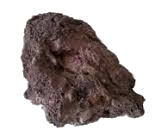
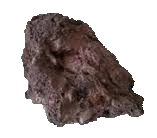
v1.03 - Colisao quase ok

diff --git a/core/src/com/spaceescape/game/Asteroide.java b/core/src/com/spaceescape/game/Asteroide.java
@@ -5,6 +5,7 @@ import com.badlogic.gdx.ApplicationAdapter;
 import com.badlogic.gdx.Gdx;
 import com.badlogic.gdx.graphics.Texture;
 import com.badlogic.gdx.graphics.g2d.SpriteBatch;
+import com.badlogic.gdx.math.Circle;
 
 
 import java.util.Random;
@@ -20,17 +21,16 @@ public class Asteroide extends Thread {
     private SpriteBatch batch;
     private int x = gerador.nextInt(Gdx.graphics.getWidth());
     private int y = gerador.nextInt(Gdx.graphics.getHeight());
-    private int velx,vely;
+    private int velx, vely;
     private int identificador;
     private Texture asteroide;
     private boolean visivel;
-    private int altura,largura;
-    private int vida=4000;
+    private int altura, largura;
+    private int vida = 4000;
 
 
-
-    public Asteroide(){
-        asteroide = new Texture("asteroide1.png");
+    public Asteroide() {
+        asteroide = new Texture("asteroide2.png");
         batch = new SpriteBatch();
         this.x = x;
         this.y = y;
@@ -44,58 +44,72 @@ public class Asteroide extends Thread {
         this.larguraDispositivo = Gdx.graphics.getWidth();
     }
 
-    public void run(){
+    public void run() {
         long count = 0;
 
-        while ( true ){
-            try{
+        while (true) {
+            try {
                 Thread.sleep(25);
-            }catch(InterruptedException e){}
+            } catch (InterruptedException e) {
+            }
             //vida=vida-1;
             this.mover();
         }
     }
 
 
-    public void mover(){
+    public void mover() {
 
-        if (x <= 0) {
-            velx = gerador.nextInt(3);
-            vely = -gerador.nextInt(3);
-            x = 5;
-        }
-        if (x >= alturaDispositivo) { // altura pois está em landscape
-            velx = -gerador.nextInt(3);
-            vely = gerador.nextInt(3);
-            x = 575;
-        }
-        if (y <= 26) {
-            vely = gerador.nextInt(3);
-            velx = -gerador.nextInt(3);
-            y = 26;
-        }
-        if (y >= larguraDispositivo) { // largura pois está em landscape
-            vely = -gerador.nextInt(3);
-            velx = gerador.nextInt(3);
-            y = 510;
-        }
+//        if (x <= 0) {
+//            velx = gerador.nextInt(10);
+//            vely = -gerador.nextInt(10);
+//            x = 5;
+//        }
+//        if (x >= alturaDispositivo) { // altura pois está em landscape
+//            velx = -gerador.nextInt(10);
+//            vely = gerador.nextInt(10);
+//            x = (int)alturaDispositivo;
+//        }
+//        if (y <= 26) {
+//            vely = gerador.nextInt(10);
+//            velx = -gerador.nextInt(10);
+//            y = 26;
+//        }
+//        if (y >= larguraDispositivo) { // largura pois está em landscape
+//            vely = -gerador.nextInt(10);
+//            velx = gerador.nextInt(10);
+//            y = (int)larguraDispositivo;
+//        }
 
+        if (x < -500) {
+            velx = gerador.nextInt(10);
+            vely = -gerador.nextInt(10);
+            x = -500;
+        }
+        if (x > Gdx.graphics.getWidth()+500) {
+            velx = -gerador.nextInt(10);
+            vely = gerador.nextInt(10);
+            x = Gdx.graphics.getWidth() +500;
+        }
+        if (y < -500) {
+            vely = gerador.nextInt(10);
+            velx = -gerador.nextInt(10);
+            y = -500;
+
+        }
+        if (y > Gdx.graphics.getHeight()+500){
+            vely = -gerador.nextInt(10);
+            velx = gerador.nextInt(10);
+            y = Gdx.graphics.getHeight() + 500;
+        }
         this.x = x + velx;
         this.y = y + vely;
 
     }
 
-
-    public void desenhaAsteroide () {
-        if(vida<0){
-            visivel=false;
-        }
-        if (visivel == true) {
-            batch.begin();
-            batch.draw(asteroide, 0, 0, largura, altura);
-            batch.end();
-        }
-
+    public Circle getFiguraColisao(){
+        return new Circle(this.x + this.largura/2,this.y + this.altura/2,this.largura/2);
+        //return new Rectangle(this.x,this.y,this.largura,this.altura);
     }
 
     public Texture getAsteroide() {
@@ -119,11 +133,6 @@ public class Asteroide extends Thread {
     }
 
 
-
-
-
-
-
     public boolean isVisible() {
         return visivel;
     }
@@ -131,8 +140,6 @@ public class Asteroide extends Thread {
     public void setVisible(boolean visible) {
         this.visivel = visivel;
     }
-
-
 
 
 

diff --git a/core/src/com/spaceescape/game/SpaceEscape.java b/core/src/com/spaceescape/game/SpaceEscape.java
@@ -2,9 +2,14 @@ package com.spaceescape.game;
 
 import com.badlogic.gdx.ApplicationAdapter;
 import com.badlogic.gdx.Gdx;
+import com.badlogic.gdx.graphics.Color;
 import com.badlogic.gdx.graphics.GL20;
 import com.badlogic.gdx.graphics.Texture;
 import com.badlogic.gdx.graphics.g2d.SpriteBatch;
+import com.badlogic.gdx.graphics.glutils.ShapeRenderer;
+import com.badlogic.gdx.math.Circle;
+import com.badlogic.gdx.math.Intersector;
+import com.badlogic.gdx.math.Rectangle;
 import com.spaceescape.game.Asteroide;
 
 import java.util.ArrayList;
@@ -20,6 +25,13 @@ public class SpaceEscape extends ApplicationAdapter {
 	private float renderY = 100;
 
 	private ArrayList<Asteroide> asteroides = new ArrayList();
+
+	//Formas para Colisão
+	private ShapeRenderer shapeRenderer;
+	private Circle circuloNave,circuloAsteroide;
+	private Rectangle retanguloCanoCima;
+
+
 
 
 	//Atributos de Configurações
@@ -42,6 +54,11 @@ public class SpaceEscape extends ApplicationAdapter {
 		adicionaAsteroide();
 		adicionaAsteroide();
 		adicionaAsteroide();
+		adicionaAsteroide();
+
+
+
+
 	}
 
 	@Override
@@ -51,7 +68,7 @@ public class SpaceEscape extends ApplicationAdapter {
 		//Gdx.gl.glClear(GL20.GL_COLOR_BUFFER_BIT | GL20.GL_DEPTH_BUFFER_BIT);
 		//desenharTexturas();
 		verificaEstadoJogo();
-
+		detectarColisoes();
 	}
 
 	@Override
@@ -63,9 +80,9 @@ public class SpaceEscape extends ApplicationAdapter {
 	private void inicializaTexturas(){
 
 		nave = new Texture[3];
-		nave[0] = new Texture("nave13.png");
-		nave[1] = new Texture("nave14.png");
-		nave[2] = new Texture("nave11.png");
+		nave[0] = new Texture("nave1.png");
+		nave[1] = new Texture("nave2.png");
+		nave[2] = new Texture("nave3.png");
 		fundo = new Texture("fundo.png");
 
 	}
@@ -94,6 +111,11 @@ public class SpaceEscape extends ApplicationAdapter {
 		posicaoHorizontalNave = larguraDispositivo /2;
 		posicaoVerticalNave = alturaDispositivo /2;
 
+		//Formas para Colisões
+		shapeRenderer = new ShapeRenderer();
+		circuloNave = new Circle();
+		circuloAsteroide = new Circle();
+
 
 	}
 
@@ -109,11 +131,14 @@ public class SpaceEscape extends ApplicationAdapter {
 
 		batch.begin();
 		batch.draw(fundo, 0, 0, larguraDispositivo, alturaDispositivo);
-		batch.draw(nave[(int) variacao], renderX, renderY, 200, 200);
+		batch.draw(nave[(int) variacao], renderX, renderY, 150, 150);
 
-		for (int i = 0; i < 3; i++) {
-			batch.draw(asteroides.get(i).getAsteroide(),asteroides.get(i).getX(),asteroides.get(i).getY(),asteroides.get(i).getLargura(),asteroides.get(i).getAltura());
+		for (int i = 0; i < asteroides.size(); i++) {
+			if(asteroides.get(i).isVisible() == true) {
+				batch.draw(asteroides.get(i).getAsteroide(), asteroides.get(i).getX(), asteroides.get(i).getY(), asteroides.get(i).getLargura(), asteroides.get(i).getAltura());
+			}
 		}
+
 		batch.end();
 
 
@@ -123,6 +148,50 @@ public class SpaceEscape extends ApplicationAdapter {
 			variacao = 0;
 		}
 	}
+
+
+	private void detectarColisoes() {
+
+		Circle formaAsteroide;
+		//FORMAS PARA COLISAO
+
+
+		//NAVE
+		circuloNave.set(renderX + 150/2,renderY +150/2,150/2);
+		//ASTEROIDES
+		for (int j = 0; j < asteroides.size(); j++) {
+			Asteroide tempAsteroide = asteroides.get(j);
+			formaAsteroide = tempAsteroide.getFiguraColisao();
+			if (tempAsteroide.isVisible() == true) {
+				boolean colidiuAsteroide1 = Intersector.overlaps(circuloNave, formaAsteroide);
+
+				if (colidiuAsteroide1 == true) {
+					Gdx.app.log("colisao", "COLIDIU ESSA MERDA!");
+					tempAsteroide.setVisible(false);
+					//tempAsteroide.stop();
+				}
+			}
+		}
+
+
+
+
+//        // DESENHANDO AS FORMAS GEOMETRICAS - para entender a colisao
+//        shapeRenderer.begin(ShapeRenderer.ShapeType.Filled);
+//        shapeRenderer.setColor(Color.RED);
+//        shapeRenderer.circle(renderX + 150/2,renderY +150/2,150/2);
+//
+//		for (int i = 0; i < asteroides.size(); i++) {
+//			shapeRenderer.circle(asteroides.get(i).getX() + asteroides.get(i).getLargura()/2,
+//					asteroides.get(i).getY() + asteroides.get(i).getAltura()/2,
+//					asteroides.get(i).getAltura()/2);
+//		}
+//        shapeRenderer.end();
+//
+
+
+	}
+
 
 
 	@Override
